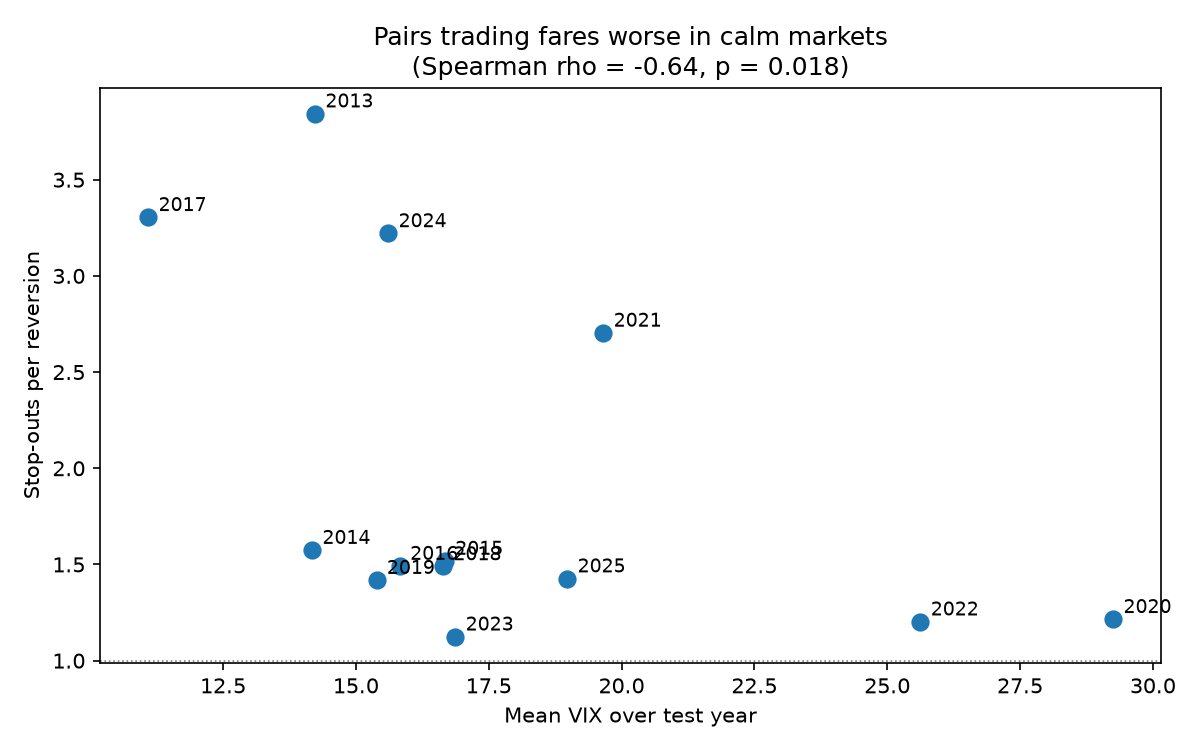
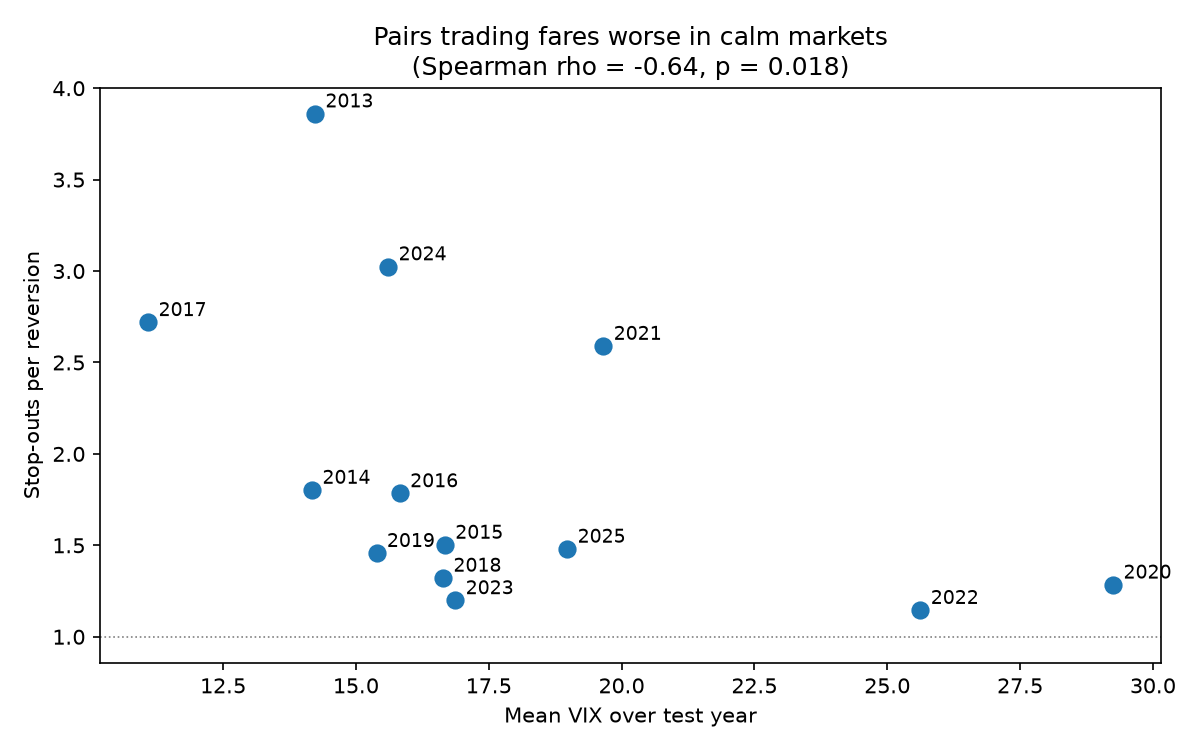
Keep one direction per pair in the decile sort; update README and figures

diff --git a/analysis.py b/analysis.py
@@ -17,6 +17,11 @@ from scipy.stats import pearsonr, spearmanr
 
 labels = pd.read_parquet("data/labels.parquet")
 
+# EG runs in both directions, but AAPL-MSFT and MSFT-AAPL are near enough the
+# same test. Keeping both double counts every pair. Direction is fixed by name
+# rather than by taking the smaller p-value, which would bias the sort.
+labels = labels[labels["stockX"] < labels["stockY"]].copy()
+
 # Rank within each test year before cutting into deciles. Pooling across years
 # would let one year's p-value distribution dominate the buckets, since the
 # pass rate varies from 3.5% to 13% across the sample.

diff --git a/README.md b/README.md
@@ -1,140 +1,187 @@
-# Does a cointegration p-value predict which pairs actually trade well?
+# Does the cointegration p-value pick pairs that revert?
 
-Pairs trading rests on finding two stocks whose spread reverts. The standard way
-to find them is an Engle-Granger cointegration test, and the p-value it returns
-is treated as a ranking: the smaller it is, the better the pair.
+Pairs are usually selected with an Engle-Granger test, with a smaller p-value
+taken to mean a better pair. This study tests that out of sample.
 
-This study tests that. It screens 2,862 ordered pairs of S&P 500 stocks across
-13 rolling windows, trades each one the following year on frozen parameters, and
-checks whether the ranking held up.
+## Data
 
-It did not. Formation p-value carries no useful information about out-of-sample
-performance. Outcomes track volatility regime instead.
+- 54 S&P 500 stocks: top 8 by market cap in each of the 7 largest GICS sectors
+  (GOOG excluded as a second share class of GOOGL, GEV for short history)
+- 13 rolling windows: 3 year formation, 1 year test (test years 2013-2025)
+- Both directions of each pair are screened (2,862 ordered pairs per window).
+  The outcome analysis keeps one direction per pair: 18,289 pair-years
+- Alpha, beta, spread mean and spread std are fitted on formation and held
+  fixed in the test year
 
-## Findings
+## Outcome
 
-**1. The p-value ranking is not monotone. Middle-ranked pairs do best.**
+Each pair-year is evaluated two ways.
 
-![Persistence and return by p-value decile](figures/decile_sort.png)
+### Persistence
 
-| Decile | Mean p | Persistence | Median return | Stop-outs per reversion |
-|---|---|---|---|---|
-| 1 (most significant) | 0.043 | 25.8% | -0.0245 | 1.52 |
-| 5 | 0.447 | 39.3% | -0.0238 | 1.42 |
-| 7 | 0.659 | 42.2% | -0.0242 | 1.51 |
-| 10 (least significant) | 0.968 | 13.6% | -0.0587 | 3.88 |
+A pair-year **persisted** if the z-score crossed zero at least twice during the
+test year and never reached |z| = 4. Both conditions are needed: a spread that
+never crosses has stopped oscillating, and one that reaches 4 sd has broken the
+formation relationship.
 
-Pairs at p ≈ 0.66, which no practitioner would trade, held together 42% of the
-time against 26% for the most significant decile. Every decile lost money on
-median.
+### Trading
 
-The only place the p-value carries information is at the bottom. Decile 10
-stopped out 3.9 times per reversion against about 1.5 everywhere else, so the
-test reliably identifies pairs with no relationship at all.
+The spread is traded on the frozen z-score:
 
-**2. The screen finds no more pairs than dependence-preserving noise.**
+- **enter** when |z| reaches 2
+- **exit** when z crosses its mean, closing the trade as **reverted**
+- **stop** when |z| reaches 4, closing it as **stopped**
+- positions still open at year end are **marked** to market and closed
 
-A block bootstrap null puts the false positive rate at 6.4%, not the nominal 5%.
-Against that benchmark, windows testing 2013-19 averaged 4.82%, so real S&P 500
-pairs cointegrated *less* often than resampled data with cointegration destroyed
-by construction.
+After a trade closes, the strategy cannot re-enter until |z| falls back inside
+2. Without that gate a spread sitting outside the band would be re-entered on
+every bar. Pair-years therefore carry between zero and a few trades; mean
+trades per pair-year runs from 1.04 to 1.77 across deciles.
 
-**3. Outcomes track volatility regime.**
+A trade's return is the z-score captured, converted to price terms by the
+frozen formation std, over the capital committed at entry:
 
-![Stop-out rate against mean VIX](figures/vix_regime.png)
+```
+z_captured    = sign(entry_z) * (entry_z - exit_z)
+entry_capital = |y_entry| + |beta| * |x_entry|
+trade_return  = z_captured * spread_std / entry_capital - 0.001 - 0.0005
+```
 
-Stop-outs per reversion correlate negatively with mean VIX across the 13 test
-years (Spearman ρ = −0.643, p = 0.018), as does the fraction of pairs losing
-money (ρ = −0.599, p = 0.031). The worst years were the calmest: 2017 had the
-lowest VIX in the sample at 11.1 and produced 3.3 stop-outs per reversion, while
-2020 at VIX 29.3 produced 1.21.
+Returns are therefore **net** of a 10bp round trip cost and 5bp slippage. A
+pair-year's return is the sum of its trade returns. Stop fills are capped at
+the stop level, which flatters the strategy: a real gap through the stop fills
+worse.
 
-Formation persistence shows no such relationship (ρ = 0.225, p = 0.459).
+Across 18,289 pair-years there are 23,447 trades: 6,310 reverted, 10,742
+stopped, 6,395 marked. The headline measure is **stop-outs per reversion**,
+overall **1.70**. It is a ratio rather than a share because a spread that moves
+further in z units hits both barriers more often, so the stopped and reverted
+shares both rise with volatility. The ratio asks which way a trade resolved,
+not how often one happened.
 
-**4. Economic linkage makes no difference.**
+Return statistics use traded pairs only: a pair that never opened has a return
+of exactly zero, which is not the same as a flat trade.
 
-| | Persistence | Median return | Stop-outs per reversion |
+## Results
+
+### 1. The screen's pass rate is within noise
+
+A block bootstrap resamples returns with the same blocks for every stock, which
+removes cointegration but keeps cross-sectional correlation and volatility
+clustering. On the 2015-17 formation window (20 replications each):
+
+| Block length | Mean pass rate | sd | 5th-95th percentile |
 |---|---|---|---|
-| Cross sector | 32.83% | -0.0342 | 1.71 |
-| Same sector | 33.19% | -0.0276 | 1.68 |
-| Same sub-industry (n=822) | 32.97% | -0.0277 | 1.68 |
+| 10 days | 7.15% | 3.54pp | 2.9%-13.9% |
+| 21 days | 6.16% | 4.01pp | 1.9%-12.0% |
 
-Two semiconductor firms behave like a bank paired with a soft drinks company.
+Observed pass rates at p < 0.05 range from 3.54% to 13.07%. All are inside the
+block 10 range.
 
-## Method
+### 2. The p-value does not rank pairs below decile 10
 
-**Universe.** The 7 largest GICS sectors by aggregate S&P 500 market cap, top 8
-constituents by cap in each. GOOG is excluded as a second share class of GOOGL,
-where near-identical series make the EG test numerically unreliable. GEV is
-excluded for having 441 trading days against a 650 day minimum. 54 stocks.
+Deciles are formed within each test year.
 
-**Screen.** 3 year formation window, 1 year test window, stepped annually from
-2010. Both directions of each pair are tested, since Engle-Granger is asymmetric
-and y-on-x is a different test from x-on-y.
+![p-value deciles](figures/pvalue_deciles.png)
 
-**Validation.** The engine is checked against synthetic data with known answers
-before any of it is trusted. Across 49 seeds it recovers a hedge ratio of 2.0 to
-within 0.4% and detects every true pair. On 1,000 independent random walks it
-produces a 5.5% false positive rate against a nominal 5%, with p-values
-approximately uniform (mean 0.5066, sd 0.2900 against 0.5 and 0.2887 expected).
+| Decile | Mean p | Pairs | Persistence | Median return | Losing | Stop/revert |
+|---|---|---|---|---|---|---|
+| 1 | 0.043 | 1,839 | 25.9% | -2.56% | 56.7% | 1.56 |
+| 2 | 0.137 | 1,828 | 29.7% | -3.53% | 60.7% | 1.65 |
+| 3 | 0.236 | 1,828 | 34.7% | -2.98% | 56.6% | 1.52 |
+| 4 | 0.331 | 1,827 | 36.7% | -3.74% | 58.8% | 1.69 |
+| 5 | 0.435 | 1,828 | 38.1% | -2.80% | 56.6% | 1.53 |
+| 6 | 0.536 | 1,828 | 39.7% | -3.47% | 58.4% | 1.63 |
+| 7 | 0.645 | 1,826 | 41.3% | -2.51% | 56.2% | 1.59 |
+| 8 | 0.756 | 1,829 | 40.5% | -2.96% | 58.7% | 1.59 |
+| 9 | 0.866 | 1,827 | 32.4% | -3.24% | 57.8% | 1.88 |
+| 10 | 0.962 | 1,829 | 15.3% | -5.56% | 65.6% | 3.41 |
 
-**Bootstrap null.** Returns are resampled in blocks and cumulated back to
-prices. The same block sequence is applied to every stock, so contemporaneous
-correlation survives while the long-run relationship does not. Mean pairwise
-return correlation is 0.3587 in the real data and 0.3626 resampled.
+The stop/revert ratio sits between 1.52 and 1.69 across deciles 1 to 8 with no
+ordering. Only decile 10 separates.
 
-**Trading.** Enter at |z| ≥ 2 on the frozen spread, exit on reversion past the
-mean or a 4σ stop, 10bp round-trip cost plus slippage. Positions still open at
-the window end are marked to market rather than discarded.
+Persistence is not monotonic in the p-value either. It rises from 25.9% in
+decile 1 to 41.3% in decile 7, then falls to 15.3% in decile 10. Both
+conditions in the persistence test can fail at opposite ends: a tight formation
+fit gives a small spread std, so ordinary moves are large in z units and reach
+the 4 sd bound, while a loose fit gives a large spread std, so the z-score
+barely moves and does not cross.
+
+Comparing the extremes directly:
+
+| | Decile 1 | Decile 10 |
+|---|---|---|
+| Median return | -2.56% | -5.56% |
+| Mean return | -0.94% | -3.36% |
+| Fraction losing | 56.7% | 65.6% |
+| Persistence rate | 25.9% | 15.3% |
+
+### 3. Sector and sub-industry
+
+| | Pairs | Persistence | Median return | Losing | Stop/revert |
+|---|---|---|---|---|---|
+| Same sector | 2,326 | 33.5% | -2.77% | 57.5% | 1.71 |
+| Cross sector | 15,963 | 33.4% | -3.44% | 58.8% | 1.70 |
+| Same sub-industry | 411 | 32.6% | -3.38% | 58.6% | 1.72 |
+| Different sub-industry | 17,878 | 33.4% | -3.34% | 58.7% | 1.70 |
+
+None of the four measures separates on sector or on sub-industry.
+
+### 4. Outcomes track the volatility regime
+
+![VIX regime](figures/vix_regime.png)
+
+| Against mean VIX (n = 13 years) | Pearson r | p | Spearman rho | p |
+|---|---|---|---|---|
+| Stop-outs per reversion | -0.478 | 0.098 | **-0.648** | **0.017** |
+| Fraction losing | -0.516 | 0.071 | **-0.709** | **0.007** |
+| Median return | +0.479 | 0.098 | **+0.604** | **0.029** |
+| Persistence rate | +0.199 | 0.514 | +0.374 | 0.209 |
+
+Pairs trading fares worse in calm markets. The three worst years, 2013, 2017
+and 2024, had mean VIX of 14.2, 11.1 and 15.6 and stop/revert ratios of 3.86,
+2.72 and 3.02. The best, 2022 and 2023, ran at 25.6 and 16.9. Year by year
+figures are in `notes.md`.
+
+## Validation
+
+`test_coint.py` checks the engine against synthetic data with known answers,
+generated by `synthetic.py`. On cointegrated pairs with a true hedge ratio of
+2.0 and a half life of 10, across 49 seeds, it recovers a mean beta 0.4% from
+the true value at a per-seed standard deviation of 2.0%, recovers the half
+life, and detects every true pair. On 1,000 independent random walks the false
+positive rate is 5.5% and the p-values are approximately uniform.
+
+Tolerances come from the measured spread rather than from guessing. Nothing
+downstream is trusted until these pass.
+
+`simulate.py` run directly checks the trade simulator on four hand-worked
+z-paths: a reversion, a position still open at the end, two trades in one
+window, and a stop out.
 
 ## Running it
 
 ```bash
 pip install -r requirements.txt
 
-python universe.py      # builds data/universe.csv
-python prices.py        # builds data/prices.parquet
-python test_coint.py    # validates the engine, ~20 min
-python screen.py        # runs the screen, ~30 min
-python labels.py        # evaluates each pair on its test year
-python bootstrap.py     # builds the null distribution, ~1 hr
+python universe.py      # stock universe
+python prices.py        # adjusted closes
+python test_coint.py    # engine validation, ~20 min
+python screen.py        # screen, ~30 min
+python bootstrap.py     # null distribution, ~1 hr
+python labels.py        # persistence and trades per pair-year
 python analysis.py      # tables and figures
 ```
 
-Each script caches its output, so re-running skips work already done.
-
-| File | Does |
-|---|---|
-| `universe.py` | Builds the stock universe |
-| `prices.py` | Downloads and caches adjusted closes |
-| `coint.py` | Engle-Granger test for one ordered pair |
-| `synthetic.py` | Generates data with known answers |
-| `test_coint.py` | Validates the engine against it |
-| `screen.py` | Runs the screen across every pair and window |
-| `simulate.py` | Trades one pair's spread |
-| `labels.py` | Persistence label and trading outcome per pair |
-| `bootstrap.py` | Block bootstrap null |
-| `analysis.py` | Tables and figures |
-
-`notes.md` has the full working notes, including things that did not make it
-into this summary.
-
 ## Limitations
 
-- **Survivorship bias.** The universe uses current index membership and current
-  market caps, then runs back to 2010. Fixing this needs point-in-time
-  constituent data. It biases toward survivors, so toward optimism.
-- **n = 13 on the volatility result.** A correlation needs to be around 0.55 to
-  reach p < 0.05 at this sample size. The scatter also looks more like two
-  clusters than a gradient, with ten years at 1.1-1.6 stop-outs per reversion
-  and four at 2.7-3.8.
-- **One formation window length.** Only 3 years was tested.
-- **The persistence label may be confounded.** It requires ≥2 zero crossings and
-  max|z| < 4, which could be measuring moderate spread volatility rather than
-  mean reversion. This would explain the inverted U and has not been tested.
-- **Bootstrap replications are few.** 20 per block length, and the sd at block 21
-  is 4.81pp.
-
-## Built with
-
-Python, pandas, NumPy, statsmodels, arch, SciPy, matplotlib, yfinance.
+- Survivorship bias: current index members and caps are used back to 2010
+- The VIX result rests on 13 years
+- No standard errors on the decile table, since pair-years share stocks and
+  years
+- The null is estimated on one window with 20 replications
+- Stop fills are capped at the stop level, so losses are understated
+- Costs are a flat 10bp round trip plus 5bp slippage, the same for every pair
+  regardless of liquidity
+- Barrier levels (2, 0 and 4) and formation length (3 years) are not varied
+- Prices end on 30 December 2025
